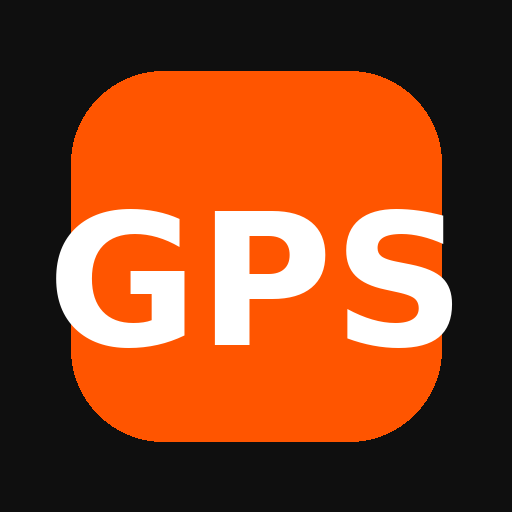
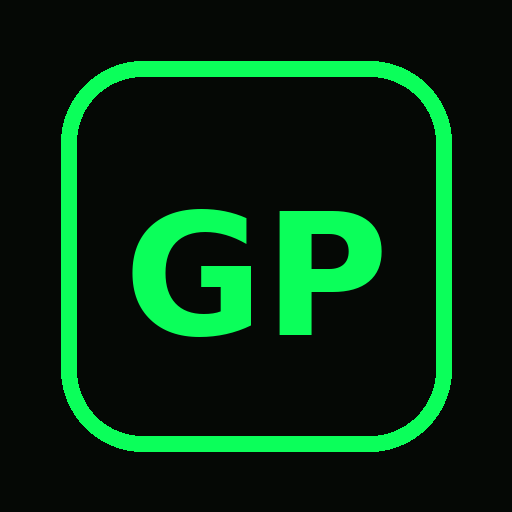
Transforma painel GPS.dev em PWA GPS Painel

diff --git a/sw.js b/sw.js
@@ -1,49 +1,31 @@
-// GPS.dev Console — Service Worker v5 (uso offline)
-const CACHE = 'gps-console-v5';
-const LOCAIS = ['./', './index.html', './style.css', './app.js', './manifest.json', './icon-192.png', './icon-512.png'];
+const CACHE = 'gps-painel-v1';
+const ASSETS = [
+  '/',
+  '/index.html',
+  '/style.css',
+  '/app.js',
+  '/manifest.json'
+];
 
-self.addEventListener('install', e => {
-  e.waitUntil(
-    caches.open(CACHE)
-      .then(c => Promise.all(LOCAIS.map(u => c.add(u).catch(() => null))))
-      .then(() => self.skipWaiting())
+self.addEventListener('install', event => {
+  event.waitUntil(
+    caches.open(CACHE).then(cache => cache.addAll(ASSETS))
   );
+  self.skipWaiting();
 });
 
-self.addEventListener('activate', e => {
-  e.waitUntil(
-    caches.keys()
-      .then(ks => Promise.all(ks.filter(k => k !== CACHE).map(k => caches.delete(k))))
-      .then(() => self.clients.claim())
-  );
+self.addEventListener('activate', event => {
+  event.waitUntil(self.clients.claim());
 });
 
-self.addEventListener('fetch', e => {
-  const req = e.request;
-  if (req.method !== 'GET') return;
-  const url = new URL(req.url);
-
-  // Nunca interceptar chamadas à API: dados sempre vêm da rede.
-  if (url.pathname.startsWith('/api/')) return;
-
-  // Arquivos do próprio painel: rede primeiro (pega atualização), cache se estiver offline.
-  if (url.origin === location.origin) {
-    e.respondWith(
-      fetch(req)
-        .then(res => {
-          if (res.ok) { const c = res.clone(); caches.open(CACHE).then(ch => ch.put(req, c)); }
-          return res;
-        })
-        .catch(() => caches.match(req).then(r => r || (req.mode === 'navigate' ? caches.match('./index.html') : Response.error())))
-    );
-    return;
-  }
-
-  // Ícones/fontes externos (unpkg): cache primeiro, guarda na primeira visita online.
-  e.respondWith(
-    caches.match(req).then(hit => hit || fetch(req).then(res => {
-      if (res.ok || res.type === 'opaque') { const c = res.clone(); caches.open(CACHE).then(ch => ch.put(req, c)); }
-      return res;
-    }).catch(() => Response.error()))
+self.addEventListener('fetch', event => {
+  event.respondWith(
+    fetch(event.request)
+      .then(response => {
+        const copy = response.clone();
+        caches.open(CACHE).then(cache => cache.put(event.request, copy));
+        return response;
+      })
+      .catch(() => caches.match(event.request))
   );
 });

diff --git a/style.css b/style.css
@@ -638,3 +638,67 @@ button.metric-card {
     padding: 12px !important;
   }
 }
+
+/* ===== GPS PAINEL PWA — PRETO + VERDE ===== */
+:root{
+  --gps-green:#0bff5a;
+  --gps-green-soft:#22c55e;
+  --gps-bg:#050805;
+  --gps-card:#0d120f;
+  --gps-border:#173d24;
+}
+
+body{
+  background:var(--gps-bg) !important;
+}
+
+.sidebar{
+  background:#060906 !important;
+  border-right:1px solid var(--gps-border) !important;
+}
+
+.nav-item.active-menu,
+.nav-item:hover{
+  border-left-color:var(--gps-green) !important;
+}
+
+.btn-action,
+button.primary,
+.primary{
+  background:var(--gps-green) !important;
+  color:#031006 !important;
+  border-color:var(--gps-green) !important;
+}
+
+#home-turing-card,
+.card,
+.metric-card{
+  background:var(--gps-card) !important;
+  border-color:var(--gps-border) !important;
+}
+
+.api-online,
+.status-online,
+.online{
+  color:var(--gps-green) !important;
+}
+
+@media (max-width:768px){
+  body{
+    overscroll-behavior:none;
+  }
+
+  .sidebar{
+    width:240px !important;
+  }
+
+  .main-content,
+  .content,
+  .page-content{
+    padding:10px !important;
+  }
+
+  #home-turing-card{
+    border-radius:14px !important;
+  }
+}

diff --git a/index.html b/index.html
@@ -602,5 +602,12 @@
   <link rel="stylesheet" href="lab-conhecimento.css">
   <script src="app.js"></script>
   <script src="lab-conhecimento.js"></script>
+<script>
+if ('serviceWorker' in navigator) {
+  window.addEventListener('load', () => {
+    navigator.serviceWorker.register('/sw.js');
+  });
+}
+</script>
 </body>
 </html>
